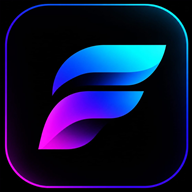
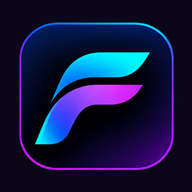
feat: icones do PWA e cache atualizado
Novo icone da aba, apple-touch-icon e icone maskable; service worker em fluxo-v5 com os novos assets no cache.

diff --git a/index.html b/index.html
@@ -29,8 +29,8 @@
     <meta name="twitter:image" content="/assets/og-cover.png" />
     <title>FluXo — conversas que fluem</title>
     <link rel="manifest" href="/manifest.webmanifest" />
-    <link rel="icon" type="image/png" href="/assets/fluxo-icon.png?v=5" />
-    <link rel="apple-touch-icon" href="/assets/apple-touch-icon.png" />
+    <link rel="icon" type="image/png" href="/assets/tab-icon.png?v=1" />
+    <link rel="apple-touch-icon" href="/assets/apple-touch-icon.png?v=1" />
     <meta name="apple-mobile-web-app-capable" content="yes" />
     <meta name="apple-mobile-web-app-title" content="FluXo" />
     <meta name="apple-mobile-web-app-status-bar-style" content="black-translucent" />

diff --git a/public/sw.js b/public/sw.js
@@ -1,9 +1,12 @@
-const CACHE = 'fluxo-v4';
+const CACHE = 'fluxo-v5';
 const CORE = [
   '/',
   '/manifest.webmanifest',
   '/assets/icon-192.png',
   '/assets/icon-512.png',
+  '/assets/icon-maskable-512.png',
+  '/assets/tab-icon.png',
+  '/assets/apple-touch-icon.png',
   '/assets/fluxo-icon.png',
   '/assets/fluxo-logo.png',
 ];
